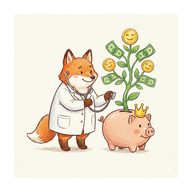
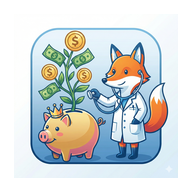
Updates

diff --git a/sw.js b/sw.js
@@ -1,1 +1,1 @@
-if(!self.define){let e,i={};const s=(s,n)=>(s=new URL(s+".js",n).href,i[s]||new Promise(i=>{if("document"in self){const e=document.createElement("script");e.src=s,e.onload=i,document.head.appendChild(e)}else e=s,importScripts(s),i()}).then(()=>{let e=i[s];if(!e)throw new Error(`Module ${s} didn’t register its module`);return e}));self.define=(n,r)=>{const t=e||("document"in self?document.currentScript.src:"")||location.href;if(i[t])return;let o={};const l=e=>s(e,t),f={module:{uri:t},exports:o,require:l};i[t]=Promise.all(n.map(e=>f[e]||l(e))).then(e=>(r(...e),o))}}define(["./workbox-8c29f6e4"],function(e){"use strict";self.skipWaiting(),e.clientsClaim(),e.precacheAndRoute([{url:"registerSW.js",revision:"bef08d0fd96fd240e36099942803b232"},{url:"index.html",revision:"fe83c029c750e93b498775ca8eaba271"},{url:"assets/index-rymhYbw5.css",revision:null},{url:"assets/index-bHANGkgI.js",revision:null},{url:"pwa-192x192.png",revision:"e6060af0ef061c3ea6086038f8ac6644"},{url:"pwa-512x512.png",revision:"13e23150d77a7481b5e54af22e55fc75"},{url:"manifest.webmanifest",revision:"f620320d38f48a5a01e4e74566c1560a"}],{}),e.cleanupOutdatedCaches(),e.registerRoute(new e.NavigationRoute(e.createHandlerBoundToURL("index.html")))});
+if(!self.define){let e,i={};const s=(s,n)=>(s=new URL(s+".js",n).href,i[s]||new Promise(i=>{if("document"in self){const e=document.createElement("script");e.src=s,e.onload=i,document.head.appendChild(e)}else e=s,importScripts(s),i()}).then(()=>{let e=i[s];if(!e)throw new Error(`Module ${s} didn’t register its module`);return e}));self.define=(n,r)=>{const t=e||("document"in self?document.currentScript.src:"")||location.href;if(i[t])return;let o={};const l=e=>s(e,t),d={module:{uri:t},exports:o,require:l};i[t]=Promise.all(n.map(e=>d[e]||l(e))).then(e=>(r(...e),o))}}define(["./workbox-8c29f6e4"],function(e){"use strict";self.skipWaiting(),e.clientsClaim(),e.precacheAndRoute([{url:"registerSW.js",revision:"bef08d0fd96fd240e36099942803b232"},{url:"index.html",revision:"fe83c029c750e93b498775ca8eaba271"},{url:"assets/index-rymhYbw5.css",revision:null},{url:"assets/index-bHANGkgI.js",revision:null},{url:"pwa-192x192.png",revision:"d0ef7a49d09140a371946002781bb4e4"},{url:"pwa-512x512.png",revision:"daa245debd1efe6c93ac83f3de52fb45"},{url:"manifest.webmanifest",revision:"f620320d38f48a5a01e4e74566c1560a"}],{}),e.cleanupOutdatedCaches(),e.registerRoute(new e.NavigationRoute(e.createHandlerBoundToURL("index.html")))});
